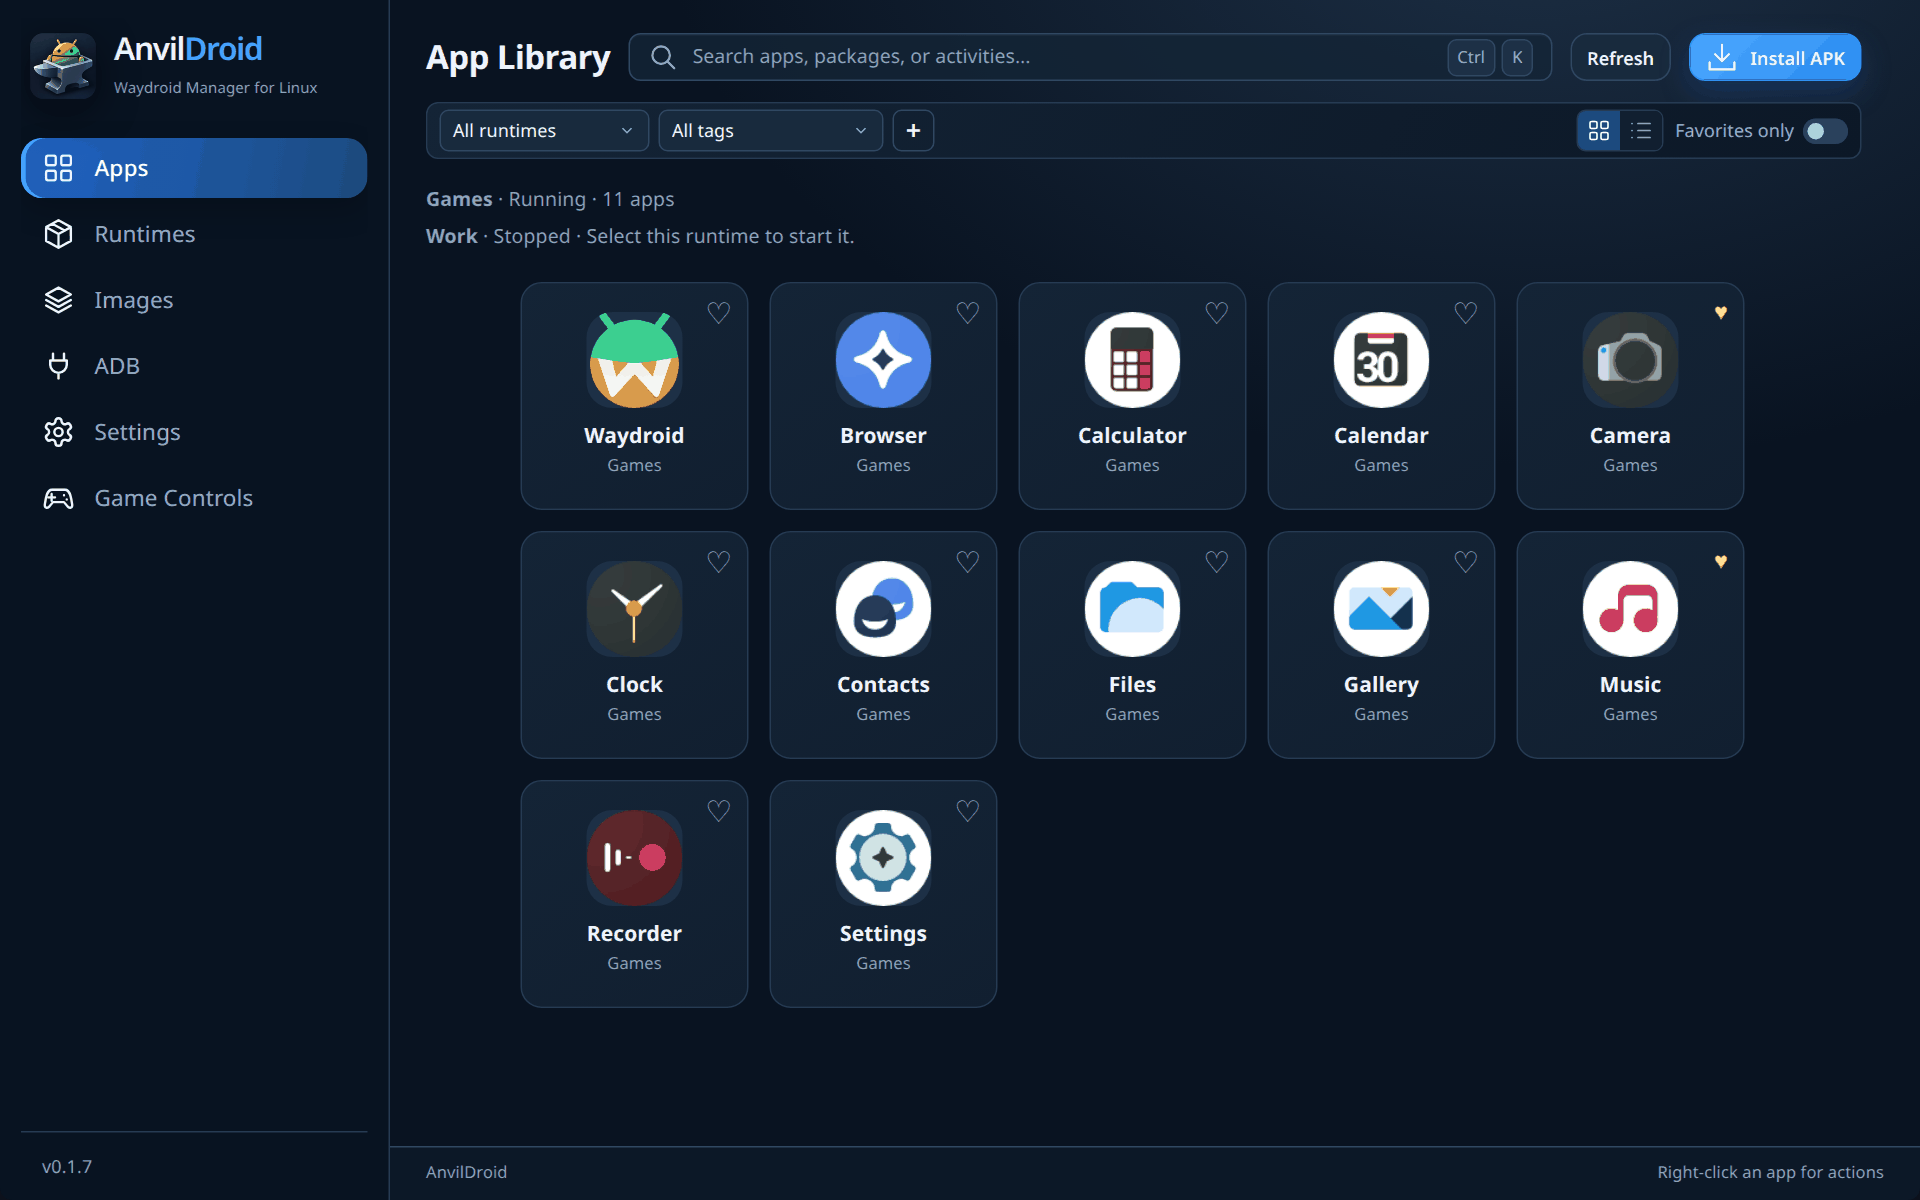
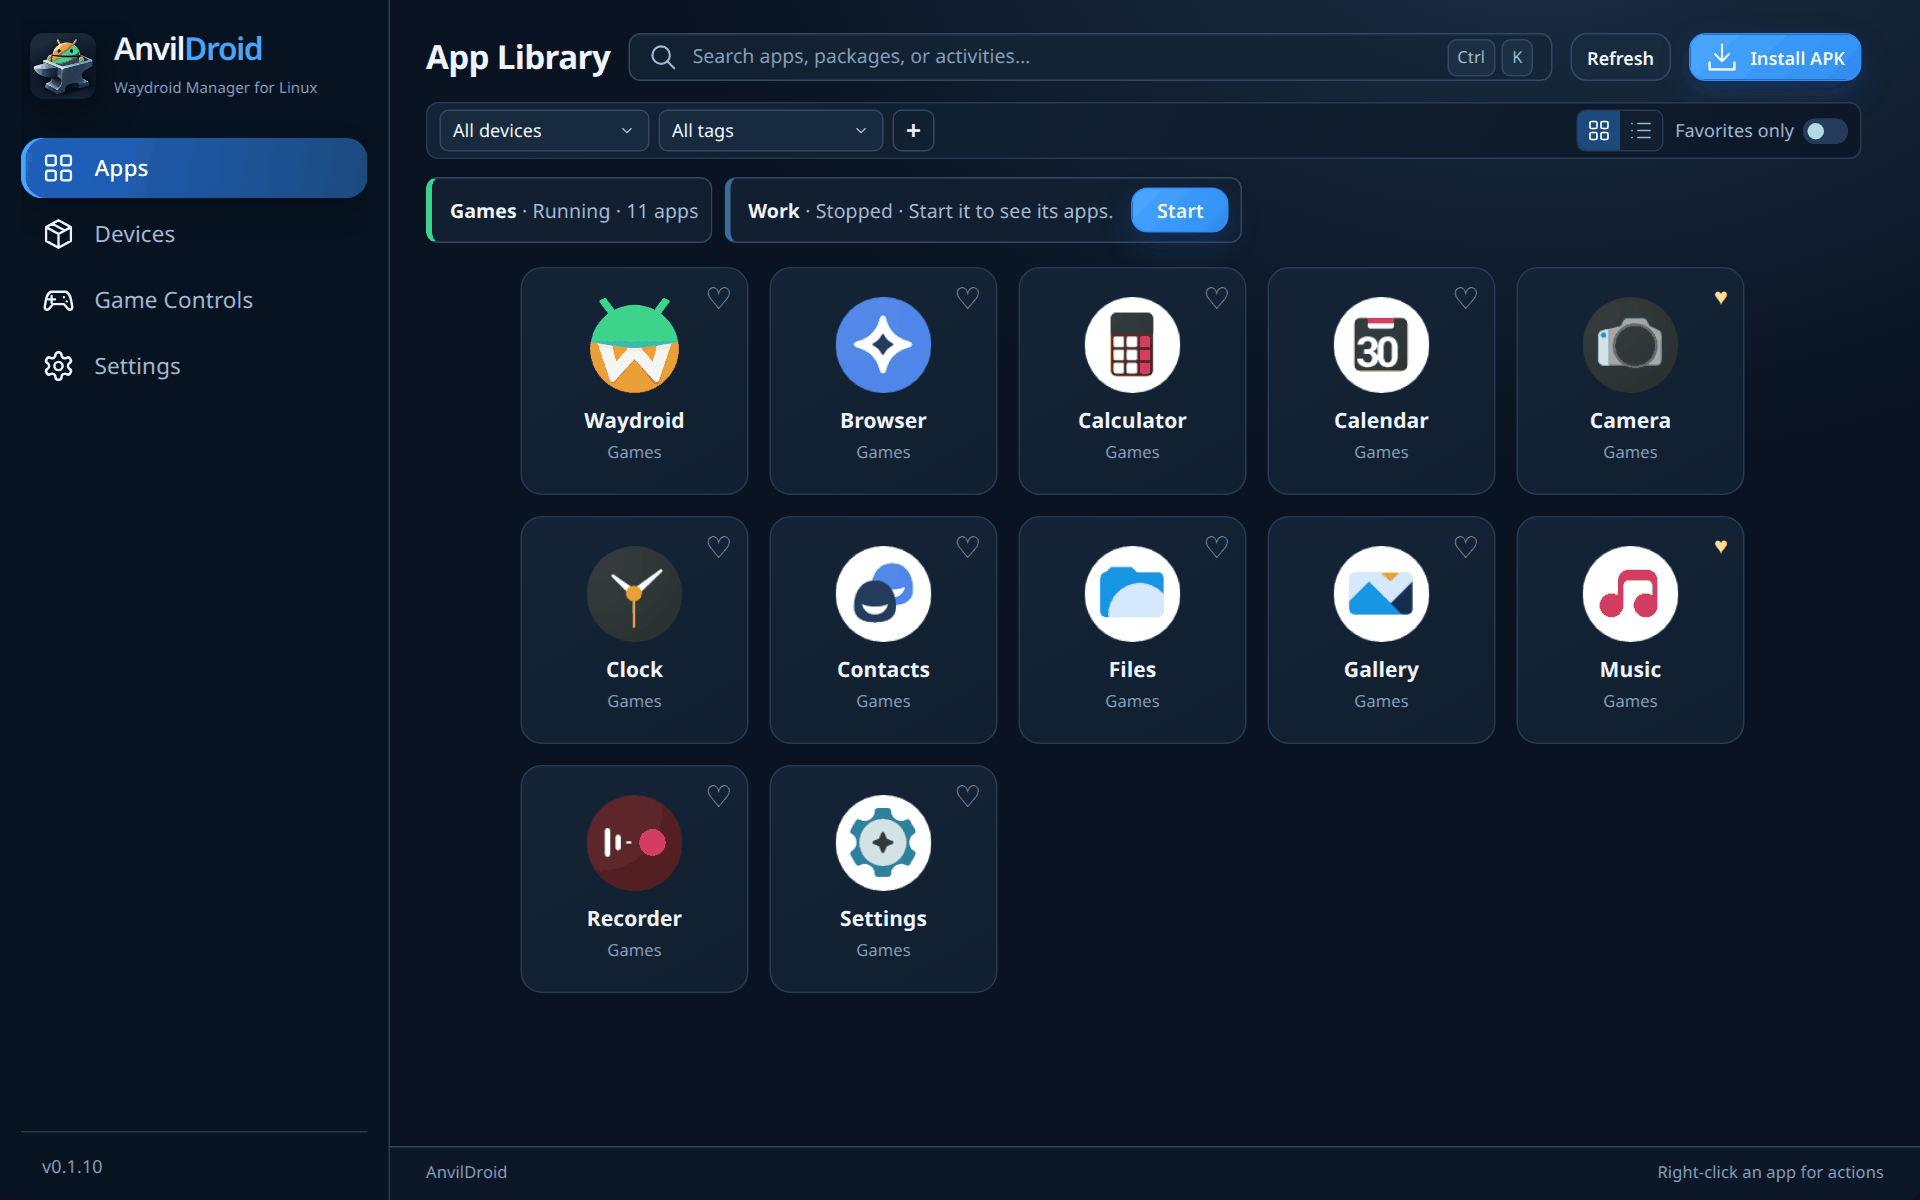
docs: new screenshots, user guide and README for devices and themes
- Screenshots retaken for the current UI (Apps, Devices, device settings,
  Game Controls, quick start, Appearance, HUD theme), using the real
  LineageOS app icons; runtimes/runtime-settings images removed.
- docs/USER-GUIDE.md walks through every page: first start, apps,
  devices, Android images, device settings, game controls and schemes,
  ADB, themes/updates/startup and troubleshooting.
- README: device wording, guided first start, four-image gallery, theme
  feature, links to the website and the user guide.

diff --git a/docs/USER-GUIDE.md b/docs/USER-GUIDE.md
@@ -1,0 +1,185 @@
+# AnvilDroid user guide
+
+How to use AnvilDroid day to day: set up Android, manage devices, run apps,
+map game controls and adjust the app. For installation see the
+[README](../README.md#install); for internals see the
+[technical guide](TECHNICAL.md).
+
+The sidebar has four pages: **Apps**, **Devices**, **Game Controls** and
+**Settings**. A *device* is one isolated Android system (a Waydroid runtime)
+with its own apps, data and settings. You can run several side by side.
+
+- [First start](#first-start)
+- [Apps](#apps)
+- [Devices](#devices)
+- [Android images](#android-images)
+- [Device settings](#device-settings)
+- [Game controls](#game-controls)
+- [Developer (ADB)](#developer-adb)
+- [Settings: themes, updates, startup](#settings)
+- [Troubleshooting](#troubleshooting)
+
+## First start
+
+![Get started guide on the Apps page](images/quick-start.png)
+
+When no device exists yet, the **Apps** page shows **Get started** with three
+steps:
+
+1. **Get Android** downloads and verifies the official Android 13 image
+   (about 1 GB, no Google apps). If the Waydroid tools are missing, this step
+   offers **Open setup** instead, which installs them.
+2. **Create and start** makes a device called "My Android" and boots it. The
+   first start takes a few minutes while the image is prepared.
+3. **Install APK** becomes available once the device is running.
+
+You can keep using the app while a step runs. If you already use Waydroid,
+AnvilDroid shows it as **System Waydroid** and skips this guide.
+
+## Apps
+
+![App library with apps from a running device](images/apps.png)
+
+- **Open an app:** click it. Each Android app opens in its own desktop window.
+  The **Waydroid** tile opens the full Android UI of that device instead.
+- **Install an APK:** **Install APK**, choose the file, then pick one or more
+  running devices to install it on.
+- **Device chips** above the grid show every device with its state and app
+  count. A stopped device has a **Start** button right there.
+- **Find apps:** search with <kbd>Ctrl</kbd>+<kbd>K</kbd>, filter by device or
+  tag, or turn on **Favorites only**. Click the heart on a tile to favorite it.
+  The **+** button next to the tag filter creates and manages tags.
+- **Grid or list:** switch with the two buttons on the right of the filter bar.
+  When apps from several devices are shown, they are grouped per device.
+- **Right-click an app** for more: App details, Android App Info,
+  Compatibility… (per-app *Fake Wi-Fi* and *Mouse as touch*), Force-stop…,
+  Create/update menu shortcut, Uninstall….
+
+Only apps from running devices are listed. New apps get a menu shortcut in your
+desktop's application menu automatically (you can turn this off in Settings).
+
+## Devices
+
+![Devices page with live usage](images/devices.png)
+
+**Devices** has three tabs: **Devices**, **Android images** and
+**Developer (ADB)**.
+
+- **Create a device:** open **+ New device**, enter a name, choose an image and
+  click **Create device**. You need an image first; see
+  [Android images](#android-images).
+- **Row actions:** Start / Stop, Restart, **Open Waydroid** (full Android UI)
+  and **Settings**. Tick several rows to start, stop or restart them together.
+- **Quick switches:** the two menus under each name change the device identity
+  (e.g. Pixel 8 Pro) and the GPU. A running device restarts to apply them.
+- **Usage** shows memory, CPU, disk and GPU while a device runs.
+- The **Default** tag marks the device that opens when nothing else is chosen.
+  Change it in the device's settings (**Set as default**).
+- **Troubleshoot** shows setup checks and **Restart controller**.
+
+## Android images
+
+The **Android images** tab lists the images you can create devices from.
+
+- **Official images:** download the Waydroid VANILLA image (no Google apps) or
+  GAPPS (with Google Play). Downloads are verified before use.
+- **Import custom image…:** use your own `system.img` and `vendor.img` from a
+  folder, a ZIP file or a URL. ext4, EROFS and SquashFS images work; custom
+  images are experimental.
+- **Create device** starts a new device from an image. **Reinstall** replaces
+  the Android system of a stopped device; it erases that device's apps and data.
+
+## Device settings
+
+![Device settings with categories](images/device-settings.png)
+
+Open a device's **Settings** from the Devices page. Pick a category on the
+left; **Simple** shows the common ones, **Advanced** adds storage, display
+backend, diagnostics and exact RAM/CPU limits. The buttons on top set the
+default device, rename, reinstall or delete it (stop it before deleting).
+
+| Category | What it does |
+|---|---|
+| Graphics | Choose the GPU, or Automatic. Saving restarts Android. |
+| Display | Desktop windows (one window per app) or the full Android UI. Only one mode at a time. |
+| Performance | RAM and CPU limits, with presets from Light to Unlimited. |
+| Notifications | Show Android notifications on the desktop; turn them off per app. |
+| Camera | Pass one or more of this computer's cameras to Android. |
+| Device identity | Spoof the Android device model (Pixel, Galaxy, ROG Phone…). Some apps behave differently per model. |
+| Google Play | Help with Play Protect registration on GAPPS images. |
+| ARM translation | Install libndk_translation or libhoudini to run ARM-only apps. |
+| Storage (Advanced) | Where the device's data lives, moving it to another disk, and **Shared folders** from your home that appear under `/sdcard/AnvilDroid`. |
+| Managed copy (Advanced) | Import System Waydroid's apps and data into a separate device. |
+| Diagnostics (Advanced) | Session details and **Export report** (a JSON file for bug reports). |
+
+Settings marked to apply on restart take effect the next time the device
+starts.
+
+## Game controls
+
+![Game Controls with control schemes](images/game-controls.png)
+
+Map keyboard and mouse to touch in any Android app or game.
+
+1. Open the app, then press <kbd>F2</kbd> (or the window's header menu →
+   **Edit keymap**). An overlay editor opens on top of the app.
+2. Add controls where the game expects touches: tap, hold, joystick (WASD),
+   swipe, repeat, skill, macro, aim, mouse-to-touch and FPS mouse look.
+3. Save. The controls work whenever that app has focus.
+
+| Key | Action |
+|---|---|
+| <kbd>F2</kbd> | Edit keymap |
+| <kbd>F3</kbd> | Turn the controls on or off (e.g. to type in chat) |
+| <kbd>F4</kbd> | Show or hide the control markers |
+| <kbd>Esc</kbd> | Cancel editing |
+
+The **Game Controls** page lists every app with saved controls, per device.
+Open **Schemes** under an app to keep several layouts:
+
+- **Use** makes the selected scheme active.
+- **New**, **Clone** and **Rename** take the name typed in **New name**.
+- **Export** saves a scheme as an AnvilDroid JSON file; **Import…** loads one.
+- **Reset** clears the selected scheme. **Remove** deletes a custom scheme that
+  is not active (Default cannot be removed).
+
+Save or cancel the editor in the app window before changing schemes.
+**Touch diagnostics** installs a small probe app to check that touches arrive.
+
+## Developer (ADB)
+
+The **Developer (ADB)** tab connects a running device to ADB so Android Studio
+can see it. Click **Connect** for a device, then select it in Android Studio and
+approve USB debugging in Android if asked. Under **Android SDK** you can point
+to the same `adb` that Android Studio uses. Connections stay on this computer
+and end when the device or controller stops.
+
+## Settings
+
+![Appearance settings with themes and accent colours](images/appearance.png)
+
+- **Theme:** **Classic** (rounded, calm) or **HUD** (square, high-contrast game
+  look). Both have the same pages and controls.
+- **Light or dark:** System follows your desktop, or pick one.
+- **Accent colour:** Blue, Forge, Toxic, Crimson, Synthwave or Ice.
+- **Updates:** **Check for updates** downloads the right package for your
+  system after you confirm, then restarts AnvilDroid. If you installed from the
+  package repository, normal system updates work too.
+- **Minimize to panel, Auto startup, Startup minimize** and automatic menu
+  shortcuts for new apps.
+- **Start at login:** choose which devices start when you log in.
+
+![The HUD theme with the Forge accent](images/theme-hud.png)
+
+## Troubleshooting
+
+- **A device does not start:** open **Devices → Troubleshoot** to see what is
+  missing; **Restart controller** if the service looks stuck.
+- **An app misbehaves:** right-click it → **Force-stop…** and open it again.
+  Apps that need Wi-Fi or treat the mouse oddly can be adjusted under
+  **Compatibility…**.
+- **Report a bug:** device **Settings → Diagnostics → Export report**
+  (Advanced view) and attach the file to a
+  [GitHub issue](https://github.com/anvildroid/anvildroid/issues).
+- More on limits (Play Integrity, NVIDIA, image support):
+  [compatibility and limitations](TECHNICAL.md#compatibility-and-limitations).

diff --git a/README.md b/README.md
@@ -5,21 +5,32 @@
 [![License: MIT](https://img.shields.io/badge/license-MIT-blue.svg)](LICENSE-MIT)
 
 Run Android apps on the Linux desktop. AnvilDroid is a GUI and runtime
-controller for [Waydroid](https://waydro.id): isolated Android runtimes, app
+controller for [Waydroid](https://waydro.id): isolated Android devices, app
 windows on Wayland and X11, desktop notifications, game controls and more.
+
+**Website:** [anvildroid.github.io](https://anvildroid.github.io/) ·
+**User guide:** [docs/USER-GUIDE.md](docs/USER-GUIDE.md)
 
 > **Experimental, actively developed.** Linux x86_64 only.
 
-![App library with apps from a running runtime](docs/images/apps.png)
+![App library with apps from a running device](docs/images/apps.png)
 
 <table>
   <tr>
-    <td><img src="docs/images/runtimes.png" alt="Runtimes: status, usage and quick device/GPU choice"></td>
-    <td><img src="docs/images/runtime-settings.png" alt="Runtime settings in the Simple view"></td>
+    <td><img src="docs/images/devices.png" alt="Devices: status, live usage and quick device/GPU choice"></td>
+    <td><img src="docs/images/device-settings.png" alt="Device settings with categories in the Simple view"></td>
   </tr>
   <tr>
-    <td align="center">Runtimes with live usage and quick device/GPU switch</td>
-    <td align="center">Runtime settings (Simple view), per-app notifications</td>
+    <td align="center">Devices with live usage and a quick device/GPU switch</td>
+    <td align="center">Device settings, one category at a time</td>
+  </tr>
+  <tr>
+    <td><img src="docs/images/game-controls.png" alt="Game Controls with per-app control schemes, HUD theme"></td>
+    <td><img src="docs/images/theme-hud.png" alt="App library in the HUD theme with the Forge accent"></td>
+  </tr>
+  <tr>
+    <td align="center">Game controls with per-app schemes</td>
+    <td align="center">Classic or HUD theme, six accent colours</td>
   </tr>
 </table>
 
@@ -69,13 +80,18 @@ release.
 ## Getting started
 
 1. Open **AnvilDroid** from your applications menu.
-2. **Images** → download an official Waydroid image (or import your own).
-3. **Runtimes** → **New runtime** → pick the image → **Create**. AnvilDroid
-   prepares the images and starts Android; this takes a few minutes the first time.
-4. **Apps** → install an APK or open an app. Each app gets its own desktop window.
+2. On first start the **Apps** page shows **Get started**: **Download Android**,
+   then **Create and start**. The first start takes a few minutes while the
+   image is prepared.
+3. **Install APK** or open an app. Each app gets its own desktop window.
 
-Runtime settings come in **Simple** and **Advanced** views. Change the device
-identity or GPU right from the runtime list; a running runtime restarts to apply it.
+Prefer to do it by hand? **Devices → Android images** downloads or imports an
+image, then **Devices → + New device** creates a device from it.
+
+Device settings come in **Simple** and **Advanced** views. Change the device
+identity or GPU right from the Devices list; a running device restarts to apply
+it. The [user guide](docs/USER-GUIDE.md) walks through every page: apps,
+devices, images, device settings, game controls, ADB, themes and updates.
 
 ## Updates
 
@@ -86,9 +102,10 @@ identity or GPU right from the runtime list; a running runtime restarts to apply
 
 ## Features
 
-- Multiple isolated Android runtimes running side by side, each with its own
+- Multiple isolated Android devices running side by side, each with its own
   apps, data, storage location and RAM/CPU limits
-- System Waydroid management alongside managed runtimes
+- System Waydroid management alongside managed devices
+- Guided first start: download Android, create a device, install apps
 - Android apps as native windows on Wayland and X11, plus the full Android UI
 - Desktop notifications from Android apps, with per-app control
 - Host input method (e.g. Fcitx), clipboard and shared folders
@@ -97,7 +114,8 @@ identity or GPU right from the runtime list; a running runtime restarts to apply
 - Official and custom images (folder, ZIP or URL; ext4, EROFS, SquashFS)
 - ARM translation (libndk_translation, libhoudini), device identity profiles,
   Google Play registration help
-- ADB for Android Studio, diagnostics export, light and dark themes
+- ADB for Android Studio, diagnostics export
+- Classic and HUD themes, light or dark, six accent colours
 
 ## Known limitations
 
@@ -106,13 +124,15 @@ identity or GPU right from the runtime list; a running runtime restarts to apply
 - App and game compatibility depends on the image, ARM translator and GPU.
   Apps that require Play Integrity (banking, some games, DRM video) usually
   do not work.
-- Full Android UI and separate app windows cannot be used at the same time in
-  one runtime.
+- Full Android UI and separate app windows cannot be used at the same time on
+  one device.
 
 More: [compatibility and limitations](docs/TECHNICAL.md#compatibility-and-limitations).
 
 ## Documentation
 
+- [User guide](docs/USER-GUIDE.md): using every page, from the first start to
+  game controls, themes and troubleshooting
 - [Technical guide](docs/TECHNICAL.md): architecture diagrams, display and
   notification pipelines, building from source, releasing and development
 - [Native X11 adapter](native/x11/README.md) · [NVIDIA payload](native/nvidia/README.md)
